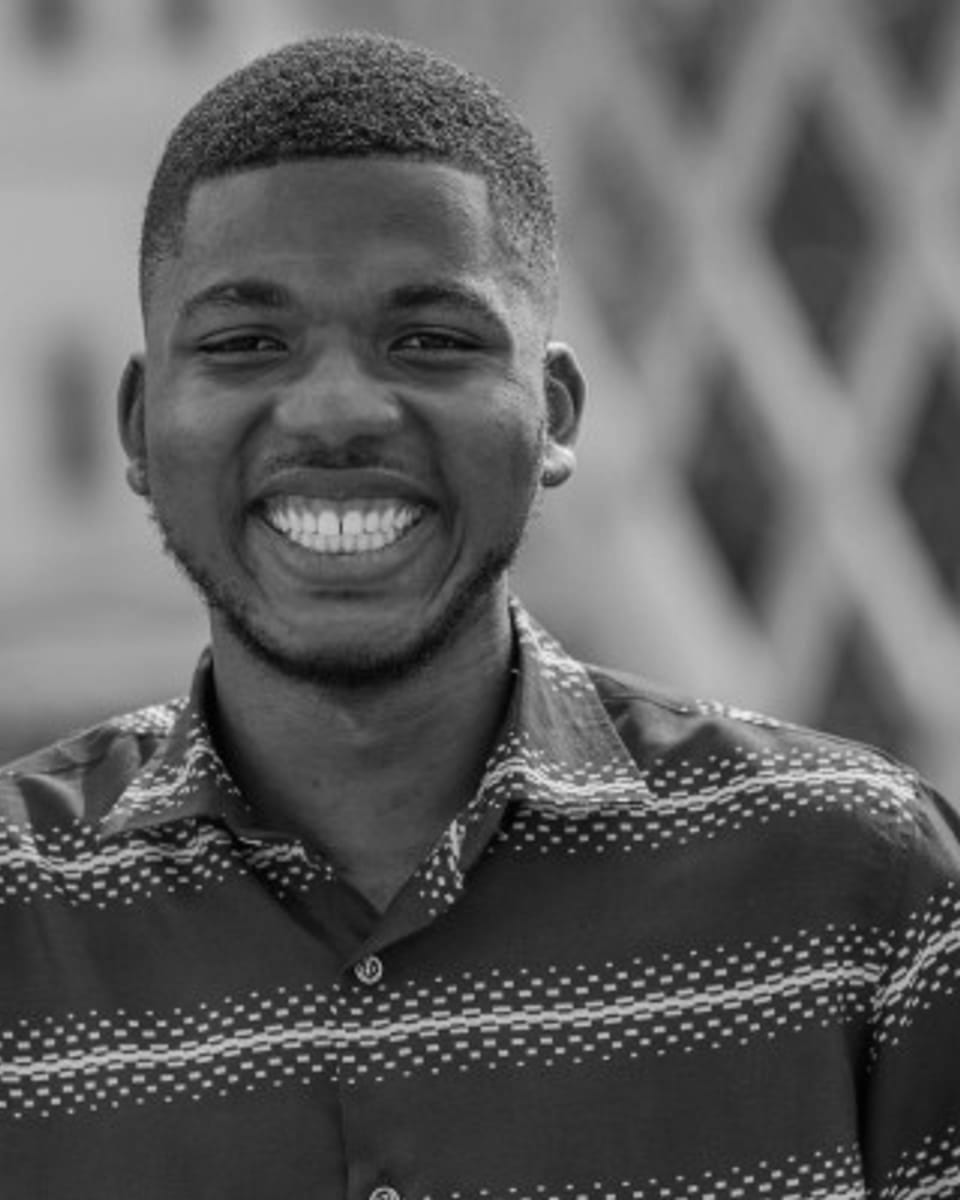
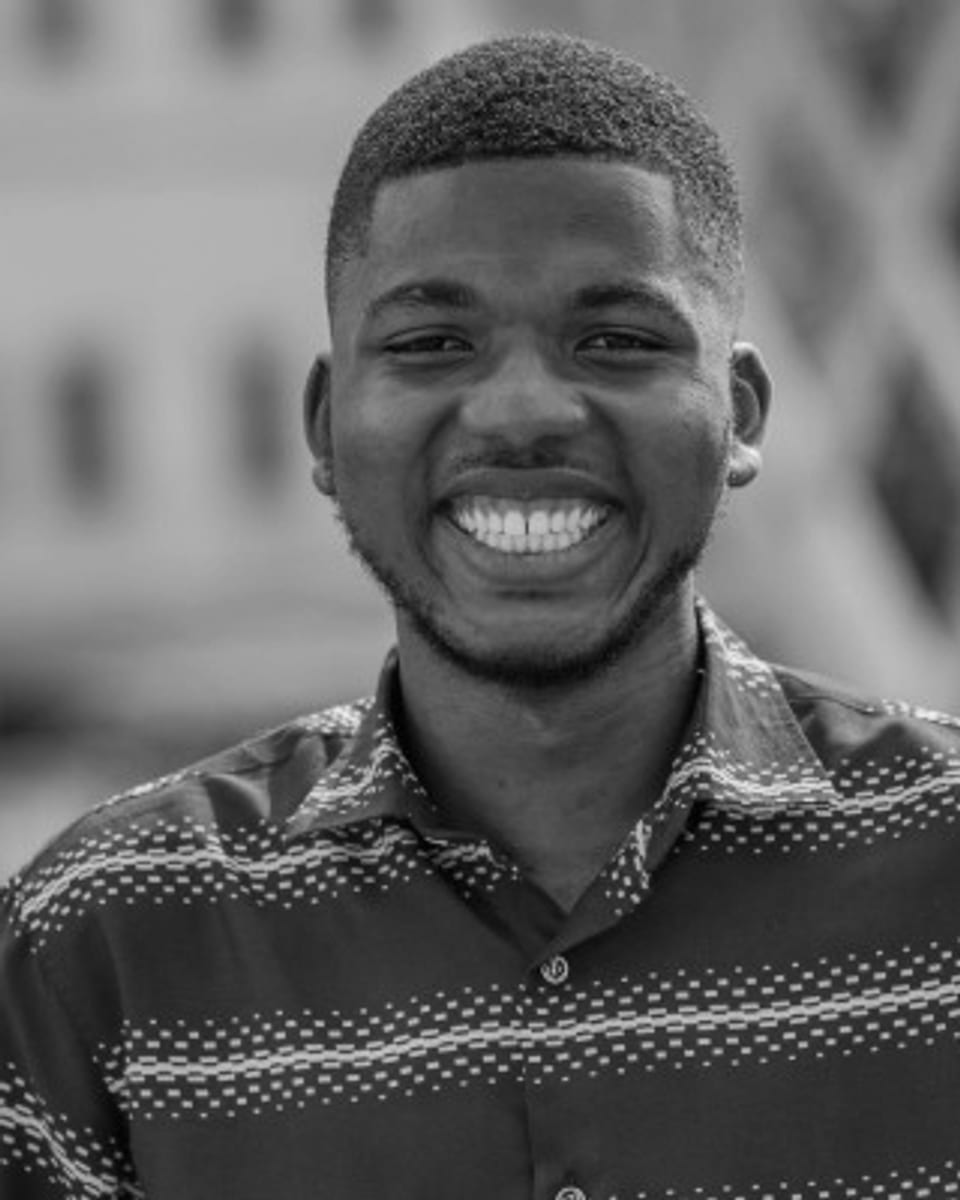
globe pins on team members' locationa

diff --git a/lib/about-team.ts b/lib/about-team.ts
@@ -4,9 +4,12 @@ export type AboutTeamMember = {
   role: string;
   quote: string;
   image: string;
+  imagePosition?: string;
+  place?: { lat: number; lng: number };
 };
 
 const photo = (file: string) => `/images/about/team/${file}` as const;
+const blankAvatar = photo("avatar-blank.jpg");
 
 export const aboutTeam = [
   {
@@ -22,6 +25,7 @@ export const aboutTeam = [
     role: "Executive Producer",
     quote: "Global producer creating impactful cultural events and experiences.",
     image: photo("taylor-rankin.jpg"),
+    place: { lat: 39.0, lng: -104.5 },
   },
   {
     id: "stefania-passamonte",
@@ -29,6 +33,7 @@ export const aboutTeam = [
     role: "In-house Counsel",
     quote: "International counsel guiding governance, compliance, and partnerships.",
     image: photo("stefania-passamonte.jpg"),
+    imagePosition: "center 12%",
   },
   {
     id: "nathan-khrupalo",
@@ -50,6 +55,7 @@ export const aboutTeam = [
     role: "Creative Director",
     quote: "Creative strategist using art and storytelling for social change.",
     image: photo("tochukwu-macfoy.jpg"),
+    place: { lat: 11.2, lng: 12.0 },
   },
   {
     id: "sutu-campbell",
@@ -64,6 +70,7 @@ export const aboutTeam = [
     role: "UX Designer",
     quote: "Product designer creating intuitive, accessible digital experiences.",
     image: photo("anirudha-ghosh.jpg"),
+    place: { lat: 22.6, lng: 79.0 },
   },
   {
     id: "faithful-kobina-quayson",
@@ -71,6 +78,7 @@ export const aboutTeam = [
     role: "Web Developer",
     quote: "Web developer converting curated designs into functional web products.",
     image: photo("faithful-kobina-quayson.jpg"),
+    place: { lat: 6.8, lng: -2.0 },
   },
   {
     id: "sthella-ngolet",
@@ -85,6 +93,7 @@ export const aboutTeam = [
     role: "Youth Programs",
     quote: "Youth advocate empowering the next generation of climate leaders.",
     image: photo("gemma-gutierrez.jpg"),
+    place: { lat: 39.0, lng: -89.5 },
   },
   {
     id: "analyah-dos-santos",
@@ -99,6 +108,7 @@ export const aboutTeam = [
     role: "Head of Technology",
     quote: "Technology strategist powering secure, connected global experiences.",
     image: photo("rowland-jones.jpg"),
+    place: { lat: 7.9, lng: -0.2 },
   },
   {
     id: "vanessa-helou",
@@ -106,6 +116,22 @@ export const aboutTeam = [
     role: "Coordinating Producer",
     quote: "Creative producer coordinating global events, partners, and media.",
     image: photo("vanessa-helou.jpg"),
+  },
+  {
+    id: "chiamaka-chukwudi",
+    name: "Chiamaka Chukwudi",
+    role: "Production Coordinator",
+    quote: "Production coordinator delivering complex international events.",
+    image: blankAvatar,
+    place: { lat: 7.4, lng: 4.2 },
+  },
+  {
+    id: "oyelese-oreoluwa-daniel",
+    name: "Oyelese Oreoluwa Daniel",
+    role: "Event Coordinator",
+    quote: "Event coordinator ensuring smooth logistics and delegate experiences.",
+    image: blankAvatar,
+    place: { lat: 10.4, lng: 10.2 },
   },
   {
     id: "danielle-kyony",
@@ -121,6 +147,7 @@ export const aboutTeam = [
     quote:
       "Digital storyteller focused on turning ideas into clear, engaging content that connects brands with their audiences.",
     image: photo("angel-mordi.jpg"),
+    place: { lat: 9.4, lng: 8.4 },
   },
   {
     id: "gift-adedayo",
@@ -128,5 +155,27 @@ export const aboutTeam = [
     role: "Brand Designer",
     quote: "Designer who loves turning ideas into clear visual solutions.",
     image: photo("gift-adedayo.jpg"),
+    place: { lat: 8.6, lng: 6.4 },
+  },
+  {
+    id: "kim-dauthel",
+    name: "Kim Dauthel",
+    role: "member",
+    quote: "...",
+    image: photo("kim-dauthel.jpg"),
+  },
+  {
+    id: "mehdi-yann",
+    name: "Mehdi-Yann",
+    role: "member",
+    quote: "...",
+    image: photo("mehdi-yann.jpg"),
+  },
+  {
+    id: "naquetta-ricks",
+    name: "Naquetta Ricks",
+    role: "member",
+    quote: "...",
+    image: photo("naquetta-ricks.jpg"),
   },
 ] as const satisfies readonly AboutTeamMember[];

diff --git a/components/about/AboutPage.tsx b/components/about/AboutPage.tsx
@@ -217,11 +217,13 @@ function TeamCard({
   name,
   role,
   expand,
+  imagePosition,
 }: {
   photo: string;
   name: string;
   role: string;
   expand?: "left" | "lead" | "right";
+  imagePosition?: string;
 }) {
   const wide =
     expand === "left" ? "group-hover/left:w-[320px]" : expand === "lead" ? "group-hover/lead:w-[320px]" : expand === "right" ? "group-hover/right:w-[320px]" : "";
@@ -236,13 +238,20 @@ function TeamCard({
       className={`relative h-[200px] w-[200px] shrink-0 transition-[width] duration-500 ease-[cubic-bezier(0.22,1,0.36,1)] ${wide}`}
     >
       <div className="absolute inset-0 overflow-hidden rounded-[64px]">
-        <Image src={photo} alt={name} fill className="object-cover" sizes="320px" />
+        <Image
+          src={photo}
+          alt={name}
+          fill
+          className="object-cover"
+          style={imagePosition ? { objectPosition: imagePosition } : undefined}
+          sizes="320px"
+        />
         <div className={`absolute inset-0 bg-black/48 transition-opacity duration-500 ${clear}`} />
         <p className="absolute bottom-5 left-0 right-0 px-5 text-center text-[18px] leading-[1.05] tracking-[-0.72px] text-white">
           {name}
         </p>
+        <TicketTab placement="top" ink label={ticket.text} labelPx={ticket.px} maxWidth={160} />
       </div>
-      <TicketTab placement="top" ink label={ticket.text} labelPx={ticket.px} maxWidth={160} />
     </article>
   );
 }
@@ -258,7 +267,13 @@ function TeamRow({ members }: { members: readonly AboutTeamMember[] }) {
         const groupClass = seat === "left" ? "group/left" : seat === "lead" ? "group/lead" : "group/right";
         return (
           <div key={member.id} className={`${groupClass} flex items-center`}>
-            <TeamCard expand={seat} photo={member.image} name={member.name} role={member.role} />
+            <TeamCard
+              expand={seat}
+              photo={member.image}
+              name={member.name}
+              role={member.role}
+              imagePosition={member.imagePosition}
+            />
             <TeamQuote group={seat} quote={member.quote} />
           </div>
         );
@@ -280,7 +295,7 @@ function TeamQuote({ quote, group }: { quote: string; group: "left" | "lead" | "
   return (
     <div className={`w-0 overflow-hidden transition-[width] duration-500 ease-[cubic-bezier(0.22,1,0.36,1)] ${open}`}>
       <p className={`w-[280px] -translate-x-8 p-8 text-[20px] leading-[1.2] tracking-[-0.8px] text-white opacity-0 transition duration-500 ease-[cubic-bezier(0.22,1,0.36,1)] ${shown}`}>
-        {quote}
+        {`“${quote}”`}
       </p>
     </div>
   );
@@ -292,13 +307,14 @@ export function AboutPage() {
   const statementLines = a.statement.split("\n");
   const teamPins: Pin[] = aboutTeam.map((member, index) => {
     const band = (index + 0.5) / aboutTeam.length;
+    const place = "place" in member ? member.place : undefined;
     return {
       id: member.id,
       kind: "photo",
       group: "ambassadors",
       city: member.name,
-      lat: Math.asin(1 - 2 * band) * (180 / Math.PI) * 0.72,
-      lng: ((index * 137.508) % 360) - 180,
+      lat: place ? place.lat : Math.asin(1 - 2 * band) * (180 / Math.PI) * 0.72,
+      lng: place ? place.lng : ((index * 137.508) % 360) - 180,
       image: member.image,
     };
   });
